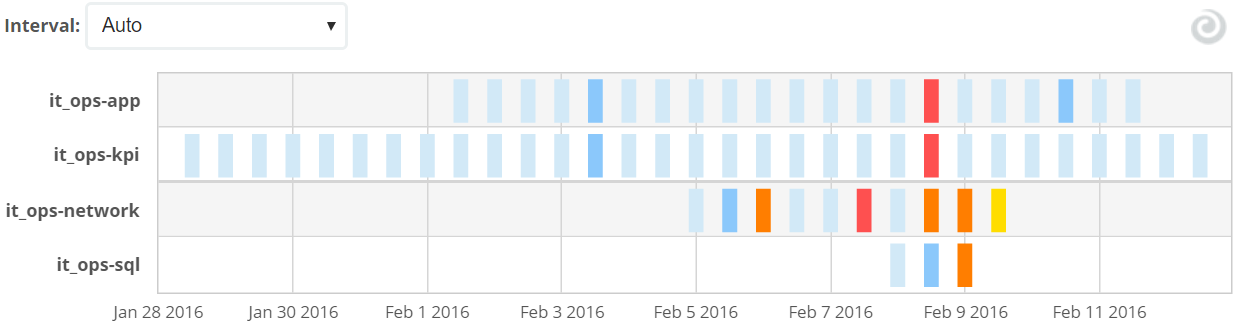
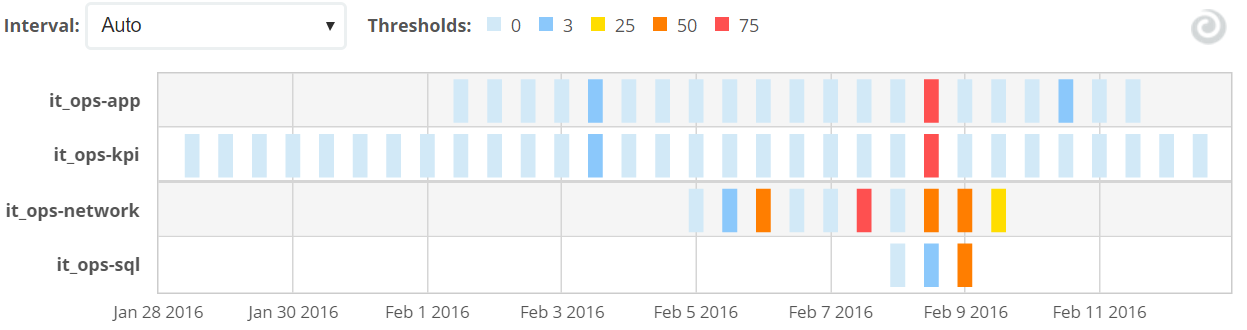
Updated README to include threshold value legend

Changed region(s): [[0.2743, 0.0303, 0.6095, 0.1212], [0.0, 0.0606, 0.1219, 0.1212]]

diff --git a/README.md b/README.md
@@ -19,8 +19,20 @@ response times:
 
 Different releases of the plugin are available to work with either Kibana 4 or Kibana 5.
 
-The distribution for Kibana 4 has been tested with Kibana versions 4.3, 4.4, 4.5 and 4.6, and the Kibana 5
-build with versions 5.0.0, 5.0.1, 5.0.2, 5.1.1, 5.1.2 and 5.2.2.
+The distribution for Kibana 4 has been tested with Kibana versions:
+* 4.3
+* 4.4
+* 4.5
+* 4.6
+
+and the distribution for Kibana 5 has been built for versions:
+* 5.0.0
+* 5.0.1
+* 5.0.2
+* 5.1.1
+* 5.1.2
+* 5.2.2
+* 5.3.0
 
 ## Installation
 
@@ -73,6 +85,12 @@ bin/kibana-plugin install https://github.com/prelert/kibana-swimlane-vis/release
 ```
 bin/kibana-plugin install https://github.com/prelert/kibana-swimlane-vis/releases/download/v5.2.2/prelert_swimlane_vis-5.2.2.zip
 ```
+### Kibana 5.3.0:
+
+```
+bin/kibana-plugin install https://github.com/prelert/kibana-swimlane-vis/releases/download/v5.3.0/prelert_swimlane_vis-5.3.0.zip
+```
+
 
 ## Uninstall
 
@@ -113,8 +131,9 @@ the visualization has been saved and added to a dashboard.
 
 ## Options
 
-The options tab allows you to configure the color band thresholds and the format of the value shown
-in the tooltip when hovering over a band in the swimlane.
+The Options tab allows you to configure the color band thresholds, the format of the value shown in the tooltip
+when hovering over a band in the swimlane, and whether to display the legend showing the lower threshold values
+for each of the color bands.
 
 ![image](resources/options.png)
 
@@ -139,12 +158,20 @@ comparison website data, with values of 3000 or more displayed in red.
 
 It is not yet possible to alter the number of color bands, nor the colors used for each range.
 
+By default a legend will be displayed above the swimlane showing the configured lower band threshold values
+for each of the colors. This legend can be hidden by deselecting the *Show threshold legend* checkbox in the
+Options tab.
+
 ### Tooltip formatting
 
 By default, the value shown in the tooltip when hovering over a band in the swimlane is shown to one decimal
 place. To alter the format of the tooltip to suit values in your data set, enter the desired format in the
 *Tooltip formatting* section of the Options tab. Refer to the [Numeral.js](http://numeraljs.com/) documentation
 for the range of accepted formats, with that being the library used to format the value in the tooltip.
+
+The date and time shown in the tooltip is displayed in the format that Kibana uses for displaying pretty-formatted
+dates. This `dateFormat` option can be configured in the *Advanced Settings* page under the Kibana Management
+application.
 
 
 ## Issues
@@ -156,5 +183,3 @@ Please file issues [here](https://github.com/prelert/kibana-swimlane-vis/issues)
 Prelert is the leading provider of behavioral analytics for IT security, IT operations, and business operations teams. Our solution analyzes log data, finds anomalies, links them together and lets the data tell the story behind advanced security threats, IT performance problems, and business disruptions.
 
 Leveraging machine learning anomaly detection and other behavioral analytics capabilities, the solution automates the analysis of massive data sets, eliminating manual effort and human error. Hundreds of progressive IT organizations rely on Prelert to detect advanced threat activity, reduce false positive alerts and enable faster root cause analysis. Prelert lets your data tell the story.
-
-www.prelert.com
